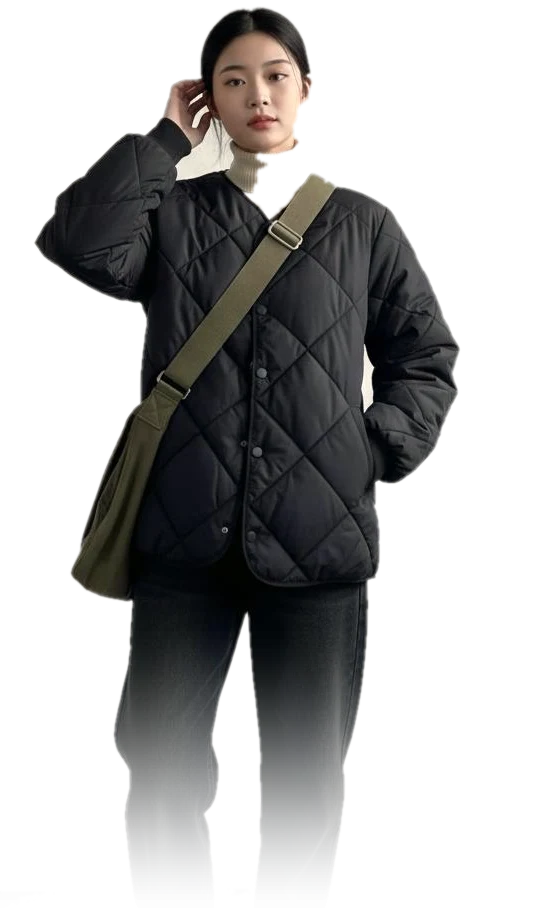
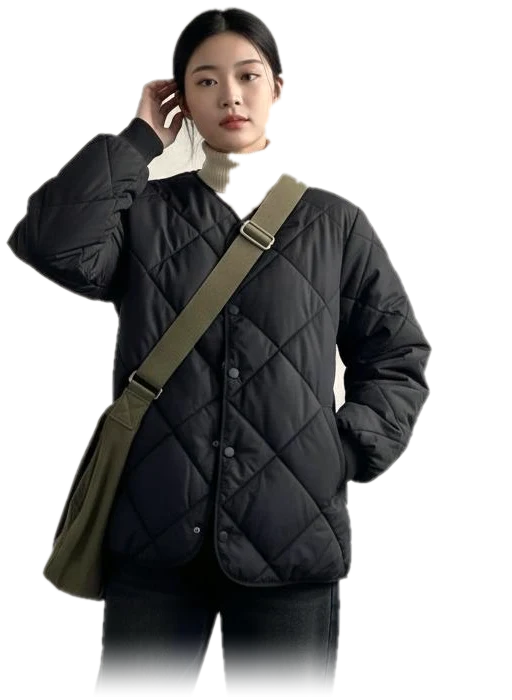
The stylist band gets a room, and she comes closer
Two changes to the same band. She was a small figure at the edge of a wide panel; the crop now stops
at the thigh, so the gesture that the band is about is the size of the thing you notice. And the
panel is no longer flat sand: a corner of the cafe from another of the client's photographs sits
behind her, blurred past the point where anything in it is a thing, under a veil that stays heavy on
the left so the copy never competes with it.

Blurring is what makes the size question go away. The crop is 364 pixels across and it covers a
2560-pixel band without complaint, because at that radius there is nothing in it left to be soft.

Getting there needed GD's bicubic scaler taken out of the path. It overshoots at a strong edge and
the result is stored without clamping, so a channel that lands below zero wraps round to 255 and
every dark edge in the room sprouted blue speckle, which the next enlargement spread. Bilinear does
not overshoot, and the climb is in small enough steps that it is every bit as smooth.

Both files carry their own timestamp in the URL now. The names do not change when the tool is re-run
and a browser that has the old one would otherwise keep showing it, which is how an edited hero went
on looking unedited for a day. The tool takes --figure and --crop, so a different photograph can be
cut out without opening it.

diff --git a/wp-content/themes/moderno-child/assets/css/omc.css b/wp-content/themes/moderno-child/assets/css/omc.css
@@ -1828,6 +1828,29 @@
 	text-align: center;
 }
 .omc-stylist:not(.has-figure) .omc-stylist__inner { max-width: 760px; }
+
+/* The room behind the band: a corner of a café blurred past recognition, under a sand veil heavy
+   enough on the left that the copy never has to compete with it. The picture arrives as a custom
+   property from the template, so this rule owns how much of it shows. */
+.omc-stylist.has-room {
+	background-image:
+		linear-gradient(102deg,
+			var(--omc-sand) 0 16%,
+			rgba(239, 230, 222, .84) 38%,
+			rgba(239, 230, 222, .46) 66%,
+			rgba(239, 230, 222, .3) 100%),
+		var(--omc-stylist-room);
+	background-size: cover, cover;
+	background-position: center, center 42%;
+}
+@media (max-width: 699px) {
+	/* The copy is centred over the whole width here, so the veil has to be even. */
+	.omc-stylist.has-room {
+		background-image:
+			linear-gradient(180deg, rgba(239, 230, 222, .88), rgba(239, 230, 222, .82)),
+			var(--omc-stylist-room);
+	}
+}
 .omc-stylist__eyebrow { margin-bottom: 10px; }
 .omc-stylist .omc-section__title { margin: 0 0 14px; }
 .omc-stylist__text {
@@ -1862,7 +1885,7 @@
 		align-self: end;
 		justify-self: end;
 		width: auto;
-		height: clamp(250px, 34vw, 480px);
+		height: clamp(300px, 36vw, 520px);
 		margin-bottom: calc(-1 * clamp(46px, 6vw, 88px));
 	}
 }
@@ -1881,8 +1904,8 @@
 		right: -4%;
 		bottom: 0;
 		width: auto;
-		height: 94%;
-		opacity: .26;
+		height: 84%;                       /* the crop stops just above her hair; this gives it air */
+		opacity: .3;
 		-webkit-mask-image: linear-gradient(90deg, transparent 2%, #000 48%);
 		mask-image: linear-gradient(90deg, transparent 2%, #000 48%);
 	}

diff --git a/.ftp-sync/tools/make-stylist-photo.php b/.ftp-sync/tools/make-stylist-photo.php
@@ -20,13 +20,27 @@
  * logo variants, so it travels with the theme and needs nothing in the database.
  */
 
-$src  = 'C:/Users/User/Downloads/oops-photos/Gemini_Generated_Image_5wf0kr5wf0kr5wf0.jpg';
+/* A different photograph can be cut out without editing this file:
+ *   php make-stylist-photo.php --figure=C:/path/to/her.jpg --crop=278,0,512,700
+ * The crop is in the source's own pixels, left,top,width,height. */
+$arg = function ( $name, $fallback ) use ( $argv ) {
+	foreach ( $argv as $a ) {
+		if ( 0 === strpos( $a, "--$name=" ) ) {
+			return substr( $a, strlen( $name ) + 3 );
+		}
+	}
+
+	return $fallback;
+};
+
+$src  = $arg( 'figure', 'C:/Users/User/Downloads/oops-photos/Gemini_Generated_Image_5wf0kr5wf0kr5wf0.jpg' );
 $dir  = dirname( __DIR__, 2 ) . '/wp-content/themes/moderno-child/assets/img';
 $out  = $dir . '/stylist-thinking.webp';
 $prev = in_array( '--preview', $argv, true );
 
-/* Her, with a little air, and the floor left out. */
-$crop = [ 'x' => 250, 'y' => 0, 'w' => 540, 'h' => 920 ];
+/* Closer in: her head, the raised hand and the jacket, down to the thigh. At full length she was a
+   small figure at the edge of a wide band; the gesture is the point, so the gesture gets the room. */
+$crop = array_combine( [ 'x', 'y', 'w', 'h' ], array_map( 'intval', explode( ',', $arg( 'crop', '278,0,512,700' ) ) ) );
 
 /* How sure a pixel has to be that it is wall before the flood crosses it. */
 $wall_lum = 142;   // darker than this is her, not the room
@@ -187,7 +201,7 @@ for ( $pass = 0; $pass < 2; $pass++ ) {
 /* ── 4. warm her to the palette, fade the cut legs, write it ──────────────── */
 
 $grade = [ 1.045, 1.012, 0.975 ];   // a quarter-stop of warmth: the band either side of her is sand
-$fade  = 300;                        // the legs are cut off; they dissolve rather than stop
+$fade  = 70;                         // she is cut at the thigh by the band's own edge; this softens the contact
 
 $dst = imagecreatetruecolor( $w, $h );
 imagealphablending( $dst, false );
@@ -228,3 +242,69 @@ if ( $prev ) {
 	printf( "preview → %s\n", $file );
 }
 imagedestroy( $dst );
+
+/* ── the room she is standing in ──────────────────────────────────────────────
+   A flat sand band behind a cut-out figure reads as a product shot. This gives her somewhere to be:
+   a corner of the café from another of the client's photographs, far enough to the right of the
+   woman in it that she is not in frame at all, blurred until it is weather rather than furniture.
+
+   Blurring is what makes the size question go away. The crop is 364 pixels across; at this radius
+   nothing in it survives that could look soft, so it can cover a 2560-pixel band without complaint.
+   It is blurred by scaling down and back up, which is both faster and smoother than repeated
+   gaussian passes. ─────────────────────────────────────────────────────────── */
+
+$room_src  = 'C:/Users/User/Downloads/oops-photos/Gemini_Generated_Image_3w667r3w667r3w66.jpg';
+$room_out  = $dir . '/stylist-room.webp';
+$room_crop = [ 'x' => 660, 'y' => 418, 'w' => 364, 'h' => 205 ];   // window, tables, a plant
+$room_size = [ 1600, 900 ];
+$room_tint = 0.38;                                                  // how far towards the sand it is pulled
+
+$room = imagecreatefromjpeg( $room_src );
+if ( ! $room ) {
+	exit( "cannot read $room_src\n" );
+}
+$piece = imagecreatetruecolor( $room_crop['w'], $room_crop['h'] );
+imagecopy( $piece, $room, 0, 0, $room_crop['x'], $room_crop['y'], $room_crop['w'], $room_crop['h'] );
+imagedestroy( $room );
+
+$step = imagescale( $piece, 70, -1, IMG_BILINEAR_FIXED );
+imagedestroy( $piece );
+foreach ( [ 110, 170, 260, 400, 620, 960, $room_size[0] ] as $width ) {
+	$next = imagescale( $step, $width, -1, IMG_BILINEAR_FIXED );
+	imagedestroy( $step );
+	$step = $next;
+}
+$wide = imagescale( $step, $room_size[0], $room_size[1], IMG_BILINEAR_FIXED );
+imagedestroy( $step );
+
+/* Pulled towards the sand so the band is one colour family; the rest of the veil is done in CSS,
+   where it can be changed without coming back here. */
+for ( $y = 0; $y < $room_size[1]; $y++ ) {
+	for ( $x = 0; $x < $room_size[0]; $x++ ) {
+		$c = imagecolorat( $wide, $x, $y );
+		// Packed, not allocated: on a truecolour image imagecolorallocate is a needless round trip.
+		imagesetpixel( $wide, $x, $y,
+			( (int) round( ( ( $c >> 16 ) & 0xFF ) * ( 1 - $room_tint ) + 0xef * $room_tint ) << 16 )
+			| ( (int) round( ( ( $c >> 8 ) & 0xFF ) * ( 1 - $room_tint ) + 0xe6 * $room_tint ) << 8 )
+			| (int) round( ( $c & 0xFF ) * ( 1 - $room_tint ) + 0xde * $room_tint )
+		);
+	}
+}
+
+imagewebp( $wide, $room_out, 82 );
+printf( "%dx%d  →  %s  (%s KB)\n", $room_size[0], $room_size[1], str_replace( dirname( __DIR__, 2 ) . '/', '', $room_out ), number_format( filesize( $room_out ) / 1024 ) );
+
+if ( $prev ) {
+	$fig  = imagecreatefromwebp( $out );
+	$card = imagecreatetruecolor( 1400, 560 );
+	imagecopyresampled( $card, $wide, 0, 0, 0, 0, 1400, 560, $room_size[0], (int) ( $room_size[1] * 0.62 ) );
+	imagealphablending( $card, true );
+	$fh = 520;
+	$fw = (int) round( imagesx( $fig ) * $fh / imagesy( $fig ) );
+	imagecopyresampled( $card, $fig, 1400 - $fw - 120, 560 - $fh, 0, 0, $fw, $fh, imagesx( $fig ), imagesy( $fig ) );
+	$file = sys_get_temp_dir() . '/stylist-band.png';
+	imagepng( $card, $file );
+	printf( "band preview → %s\n", $file );
+	imagedestroy( $fig );
+}
+imagedestroy( $wide );

diff --git a/wp-content/themes/moderno-child/functions.php b/wp-content/themes/moderno-child/functions.php
@@ -385,6 +385,13 @@ function omc_stylist_band() {
 	 * look the same on an environment whose database has never been published to.
 	 */
 	$figure = OMC_DIR . '/assets/img/stylist-thinking.webp';
+	$room   = OMC_DIR . '/assets/img/stylist-room.webp';
+
+	/*
+	 * Both carry the file's own timestamp. The names never change when the tool is re-run, and a
+	 * browser that has the old one would otherwise keep showing it — which is exactly how an edited
+	 * hero went on looking unedited for a day.
+	 */
 
 	return apply_filters( 'omc_stylist_band', [
 		'eyebrow' => __( 'The stylist', 'moderno-child' ),
@@ -392,10 +399,12 @@ function omc_stylist_band() {
 		'text'    => __( 'Try our digital stylist, free, and we’ll recommend what’s best for you.', 'moderno-child' ),
 		'button'  => __( 'Start the stylist', 'moderno-child' ),
 		'figure'  => file_exists( $figure ) ? [
-			'url'    => OMC_URI . '/assets/img/stylist-thinking.webp',
-			'width'  => 540,
-			'height' => 920,
+			'url'    => OMC_URI . '/assets/img/stylist-thinking.webp?v=' . filemtime( $figure ),
+			'width'  => 512,
+			'height' => 700,
 		] : null,
+		// The room she is standing in: the same photograph's café corner, blurred past recognition.
+		'room'    => file_exists( $room ) ? OMC_URI . '/assets/img/stylist-room.webp?v=' . filemtime( $room ) : '',
 	] );
 }
 

diff --git a/wp-content/themes/moderno-child/templates/page-home.php b/wp-content/themes/moderno-child/templates/page-home.php
@@ -139,7 +139,14 @@ get_header();
 	<!-- ───────────── The stylist ───────────── -->
 	<?php $omc_sty = function_exists( 'omc_stylist_band' ) ? omc_stylist_band() : null; ?>
 	<?php if ( $omc_sty ) : ?>
-		<section class="omc-stylist omc-reveal<?php echo empty( $omc_sty['figure'] ) ? '' : ' has-figure'; ?>" aria-labelledby="omc-stylist-title">
+		<?php
+		$omc_sty_class = 'omc-stylist omc-reveal'
+			. ( empty( $omc_sty['figure'] ) ? '' : ' has-figure' )
+			. ( empty( $omc_sty['room'] ) ? '' : ' has-room' );
+		// The backdrop arrives as a custom property so the veil over it stays in the stylesheet.
+		$omc_sty_style = empty( $omc_sty['room'] ) ? '' : '--omc-stylist-room:url(' . esc_url( $omc_sty['room'] ) . ')';
+		?>
+		<section class="<?php echo esc_attr( $omc_sty_class ); ?>"<?php echo $omc_sty_style ? ' style="' . esc_attr( $omc_sty_style ) . '"' : ''; ?> aria-labelledby="omc-stylist-title">
 			<div class="l-section__container omc-stylist__inner">
 				<div class="omc-stylist__copy">
 					<p class="omc-eyebrow omc-stylist__eyebrow"><?php echo esc_html( $omc_sty['eyebrow'] ); ?></p>
